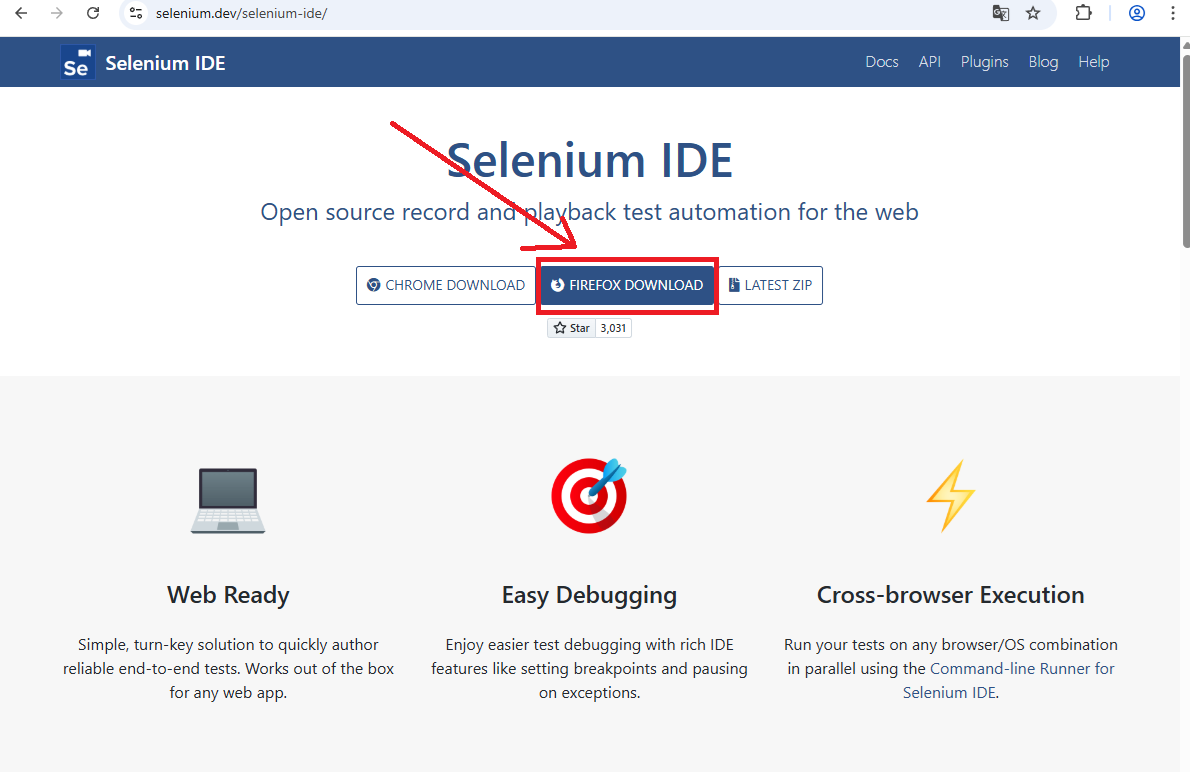
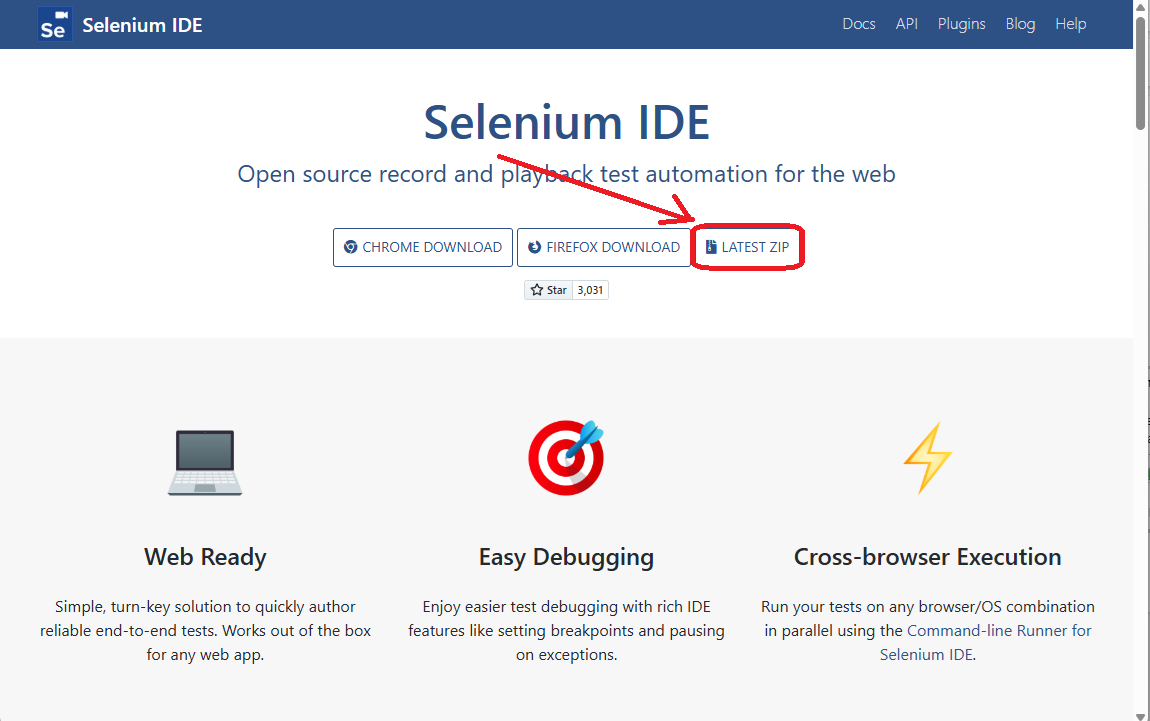
testes aula03

diff --git a/ds/4des/04-ts/aula03/selenium.md b/ds/4des/04-ts/aula03/selenium.md
@@ -1,0 +1,31 @@
+# Selenium IDE
+## Demonstração de Testes Automatizados com Selenium
+A UI que vamos testar é o [livro de receitas implantado no gitpages com a sua API implantada na vercel](https://wellifabio.github.io/receitas-web-2025/).
+- Para isso vamos acessar o site do [Selenium](https://www.selenium.dev/) e baixar o Selenium IDE instalavel.
+## Passos para instalar o Selenium IDE
+- 1 Acesse o site do [Selenium](https://www.selenium.dev/) e clique em **leia mais** no Selenium IDE.
+![Screenshot01](./screenshot01.png).
+- 2 Clique em **LATEST ZIP**.
+![Screenshot02](./screenshot02.png).
+- 3 Clique em **Escolha o arquivo executável .exe** para instalar no Windows.
+![Screenshot03](./screenshot03.png).
+- 4 Após baixar, instale normalmente.
+- 5 Após instalar, abra o programa Selenium IDE e crie um novo projeto.
+![Screenshot04](./screenshot04.png).
+- 6 Crie um novo projeto de testes e nomeie como `Receitas CRUD`.
+![Screenshot05](./screenshot05.png).
+- 7 Agora vamos criar uma suite de testes e nomeie como `CRUD` apenas.
+![Screenshot06](./screenshot06.png).
+- 8 Agora vamos criar um novo teste e nomeie como `Cadastro`, copie a URL do site que vai testar e cole no campo URL com o comando **Open**.
+![Screenshot07](./screenshot07.png).
+- 9 Agora vamos gravar um teste, clique no botão vermelho de gravação.
+![Screenshot08](./screenshot08.png).
+- 10 A partir de agora você deve seguir com as ações para cadastrar uma nova receita, clique no botão **Adicionar Receita**, preenchendo o formulário e clicando em **Enviar Receita**, até concluir a gravação.
+- 11 Após concluir a gravação, clique no botão vermelho novamente para parar a gravação.
+- 12 Crie também um teste para excluir uma receita, clicando no botão **Excluir Receita** seguindo o mesmo procedimento.
+- 14 Agora vamos executar os testes, clicando no botão de play.
+- 15 Veja que o Selenium IDE vai executar os testes automaticamente.
+- 17 Vamos montar a suite de testes com os testes que criamos.
+- 18 Agora vamos executar a suite de testes.
+![Screenshot09](./screenshot09.png).
+- 19 Veja que o Selenium IDE vai executar os testes automaticamente.

diff --git a/ds/4des/04-ts/aula03/README.md b/ds/4des/04-ts/aula03/README.md
@@ -85,15 +85,4 @@
 - Aprendemos sobre testes automatizados e testes manuais.
 - Aprendemos sobre testes de regressão, testes de integração contínua, testes de aceitação, testes de usabilidade, testes de performance, testes de segurança, testes de carga, testes de stress, testes de volume e testes de configuração.
 
-
-## Demonstração de Testes Automatizados com Selenium
-A UI que vamos testar é o [livro de receitas implantado no gitpages com a sua API implantada na vercel](https://wellifabio.github.io/receitas-web-2025/).
-- Para isso vamos acessar o site do [Selenium](https://www.selenium.dev/) e baixar o Selenium IDE para o navegador Firefox, pois o Crome não está mais suportado esta estensão.
-## Passos para instalar o Firefox com a extensão do Selenium IDE
-- 1. Acesse o site do [Selenium](https://www.selenium.dev/) e clique em **leia mais** no Selenium IDE.
-![Screenshot01](./screenshot01.png).
-- 2. Clique em **Firefox Download**.
-![Screenshot02](./screenshot02.png).
-- 3. Clique em **Download Firefox and get the extension**.
-![Screenshot03](./screenshot03.png).
-- 4 Após baixar e instalar o Firefox, clique em **Adicionar ao Firefox**.
+## [Demonstração de Testes Automatizados com Selenium](./selenium.md)
